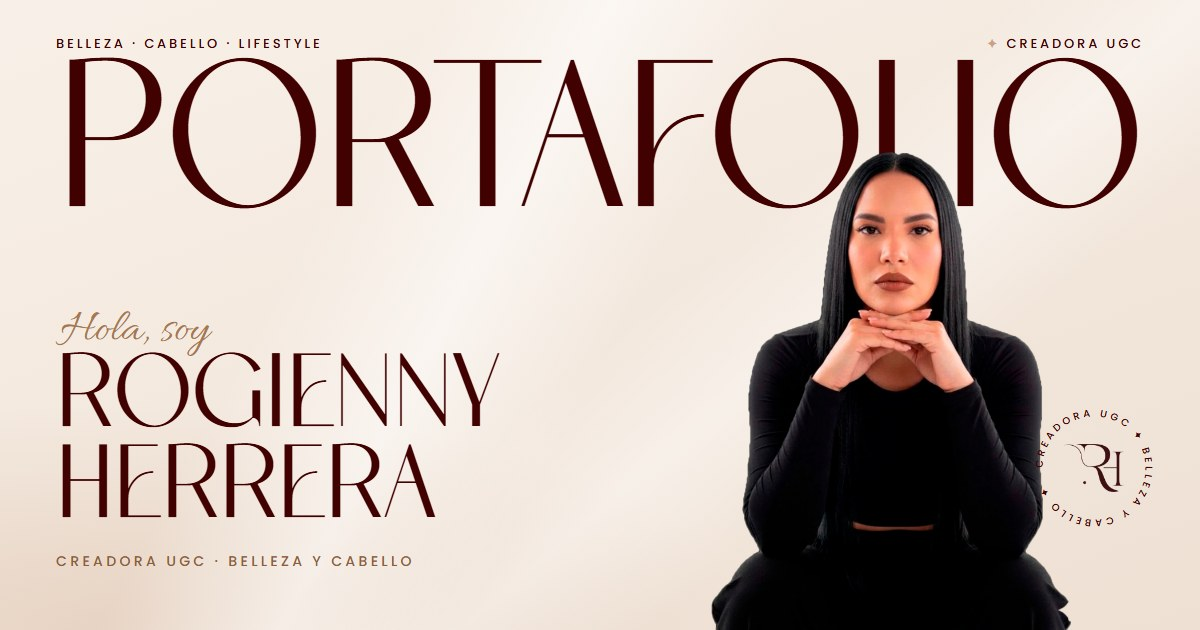
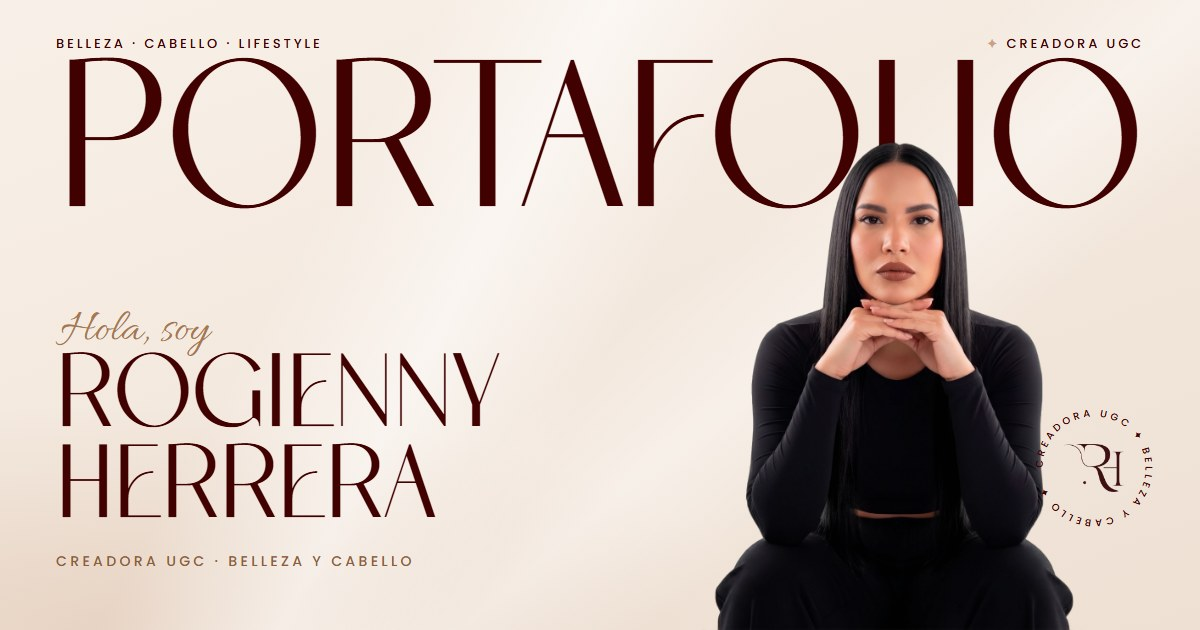
Portada: foto 2K con el fondo quitado

diff --git a/index.html b/index.html
@@ -11,7 +11,7 @@
   <meta property="og:title" content="Rogienny Herrera · Creadora UGC">
   <meta property="og:description" content="Videos y fotos UGC de belleza, cabello y lifestyle para marcas.">
   <meta property="og:url" content="https://rogienny-ugc.vercel.app/">
-  <meta property="og:image" content="https://rogienny-ugc.vercel.app/media/og.jpg?v=3">
+  <meta property="og:image" content="https://rogienny-ugc.vercel.app/media/og.jpg?v=4">
   <meta name="twitter:card" content="summary_large_image">
   <link rel="icon" type="image/png" href="/media/marca/favicon.png">
   <link rel="apple-touch-icon" href="/media/marca/apple-touch-icon.png">
@@ -79,7 +79,7 @@
       <p class="hero__word" aria-hidden="true"><span>Portafolio</span></p>
 
       <figure class="hero__photo">
-        <img src="/media/fotos/hero.webp?v=3" alt="Rogienny Herrera apoyando el mentón en sus manos" width="1344" height="1749" fetchpriority="high">
+        <img src="/media/fotos/hero.webp?v=4" alt="Rogienny Herrera apoyando el mentón en sus manos" width="1792" height="2357" fetchpriority="high">
       </figure>
 
       <div class="hero__badge" aria-hidden="true">
